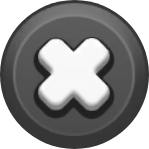
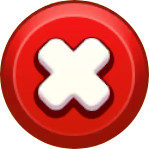
Update popups close/title style

diff --git a/lib/widgets/popup.dart b/lib/widgets/popup.dart
@@ -213,33 +213,95 @@ class PopupBodyShade extends StatelessWidget {
   }
 }
 
+class _HexagonBorder extends OutlinedBorder {
+  const _HexagonBorder({super.side, this.pointFactor = 0.45});
+
+  final double pointFactor;
+
+  Path _hexagon(Rect rect) {
+    final point = (rect.height * pointFactor).clamp(0.0, rect.width / 2);
+    return Path()
+      ..moveTo(rect.left + point, rect.top)
+      ..lineTo(rect.right - point, rect.top)
+      ..lineTo(rect.right, rect.center.dy)
+      ..lineTo(rect.right - point, rect.bottom)
+      ..lineTo(rect.left + point, rect.bottom)
+      ..lineTo(rect.left, rect.center.dy)
+      ..close();
+  }
+
+  @override
+  Path getInnerPath(Rect rect, {TextDirection? textDirection}) {
+    return _hexagon(rect.deflate(side.width));
+  }
+
+  @override
+  Path getOuterPath(Rect rect, {TextDirection? textDirection}) {
+    return _hexagon(rect);
+  }
+
+  @override
+  void paint(Canvas canvas, Rect rect, {TextDirection? textDirection}) {
+    if (rect.isEmpty || side.style == BorderStyle.none) return;
+    canvas.drawPath(_hexagon(rect), side.toPaint());
+  }
+
+  @override
+  _HexagonBorder copyWith({BorderSide? side, double? pointFactor}) {
+    return _HexagonBorder(
+      side: side ?? this.side,
+      pointFactor: pointFactor ?? this.pointFactor,
+    );
+  }
+
+  @override
+  OutlinedBorder scale(double t) {
+    return _HexagonBorder(side: side.scale(t), pointFactor: pointFactor);
+  }
+}
+
 class PopupTitleBadge extends StatelessWidget {
   const PopupTitleBadge({
     super.key,
     required this.title,
     this.fontSize = 20,
     this.shadeColor = PopupShade.start,
-    this.endColor = PopupShade.end,
   });
 
   final String title;
   final double fontSize;
   final Color shadeColor;
-  final Color endColor;
 
   static const _padding = 10.0;
+  static const _hPadding = 16.0;
   static const _borderWidth = 1.0;
   static const _gapBelow = 24.0;
-  static const _radius = 0.0;
+  static const _pointFactor = 0.45;
 
   static double boxHeight([double fontSize = 24]) =>
       _padding * 2 + fontSize + _borderWidth * 2;
 
   static double overhang([double fontSize = 24]) => boxHeight(fontSize) / 2;
 
+  ShapeDecoration _panel() {
+    final tinted = shadeColor != PopupShade.start;
+    return ShapeDecoration(
+      color: tinted ? null : Colors.black,
+      gradient: tinted ? PopupShade.fillGradient(shadeColor) : null,
+      shape: _HexagonBorder(
+        pointFactor: _pointFactor,
+        side: BorderSide(
+          color: tinted ? PopupShade.borderTint(shadeColor) : PopupShade.start,
+          width: _borderWidth,
+        ),
+      ),
+    );
+  }
+
   @override
   Widget build(BuildContext context) {
     final half = overhang(fontSize);
+    final point = boxHeight(fontSize) * _pointFactor;
 
     return SizedBox(
       height: half + _gapBelow,
@@ -250,35 +312,15 @@ class PopupTitleBadge extends StatelessWidget {
         children: [
           Positioned(
             top: -half - 1,
-            child: Stack(
-              clipBehavior: Clip.none,
-              children: [
-                for (final o in PopupShade.steps)
-                  Positioned.fill(
-                    child: Transform.translate(
-                      offset: Offset(o, o),
-                      child: DecoratedBox(
-                        decoration: BoxDecoration(
-                          borderRadius: PopupShade.corners(
-                            radius: _radius,
-                            largeRadius: _radius,
-                          ),
-                          gradient: PopupShade.gradient(shadeColor, endColor),
-                        ),
-                      ),
-                    ),
-                  ),
-                Container(
-                  padding: const EdgeInsets.fromLTRB(16, 10, 16, 10),
-                  decoration: PopupShade.panel(
-                    color: shadeColor,
-                    radius: _radius,
-                    largeRadius: _radius,
-                    borderWidth: _borderWidth,
-                  ),
-                  child: StickerTitle(title: title, fontSize: fontSize),
-                ),
-              ],
+            child: Container(
+              padding: EdgeInsets.fromLTRB(
+                _hPadding + point,
+                _padding,
+                _hPadding + point,
+                _padding,
+              ),
+              decoration: _panel(),
+              child: StickerTitle(title: title, fontSize: fontSize),
             ),
           ),
         ],

diff --git a/lib/widgets/morelives.dart b/lib/widgets/morelives.dart
@@ -100,7 +100,6 @@ class _MoreLivesPopupState extends State<MoreLivesPopup>
                                       const PopupTitleBadge(
                                         title: 'More Lives!',
                                         shadeColor: _shade,
-                                        endColor: _shadeEnd,
                                       ),
                                       Padding(
                                         padding: const EdgeInsets.symmetric(

diff --git a/lib/widgets/retry.dart b/lib/widgets/retry.dart
@@ -92,7 +92,6 @@ class _RetryPopupState extends State<RetryPopup>
                                       PopupTitleBadge(
                                         title: 'Level ${clampLevel(widget.level)}',
                                         shadeColor: _shade,
-                                        endColor: _shadeEnd,
                                       ),
                                       Center(
                                         child: Container(

diff --git a/lib/widgets/start.dart b/lib/widgets/start.dart
@@ -93,7 +93,6 @@ class _StartPopupState extends State<StartPopup>
                                       PopupTitleBadge(
                                         title: 'Level ${clampLevel(widget.level)}',
                                         shadeColor: _shade,
-                                        endColor: _shadeEnd,
                                       ),
                                       Center(
                                         child: Container(

diff --git a/lib/widgets/continue.dart b/lib/widgets/continue.dart
@@ -112,7 +112,6 @@ class _ContinuePopupState extends State<ContinuePopup>
                                       const PopupTitleBadge(
                                         title: 'Continue?',
                                         shadeColor: _shade,
-                                        endColor: _shadeEnd,
                                       ),
                                       Center(
                                         child: Container(

diff --git a/lib/widgets/return.dart b/lib/widgets/return.dart
@@ -86,7 +86,6 @@ class _ReturnPopupState extends State<ReturnPopup>
                                       const PopupTitleBadge(
                                         title: 'Are You Sure?',
                                         shadeColor: _shade,
-                                        endColor: _shadeEnd,
                                       ),
                                       Center(
                                         child: Container(

diff --git a/lib/widgets/noads.dart b/lib/widgets/noads.dart
@@ -92,7 +92,6 @@ class _NoAdsPopupState extends State<NoAdsPopup>
                                       const PopupTitleBadge(
                                         title: 'Remove Ads',
                                         shadeColor: _shade,
-                                        endColor: _shadeEnd,
                                       ),
                                       Center(
                                         child: Container(
